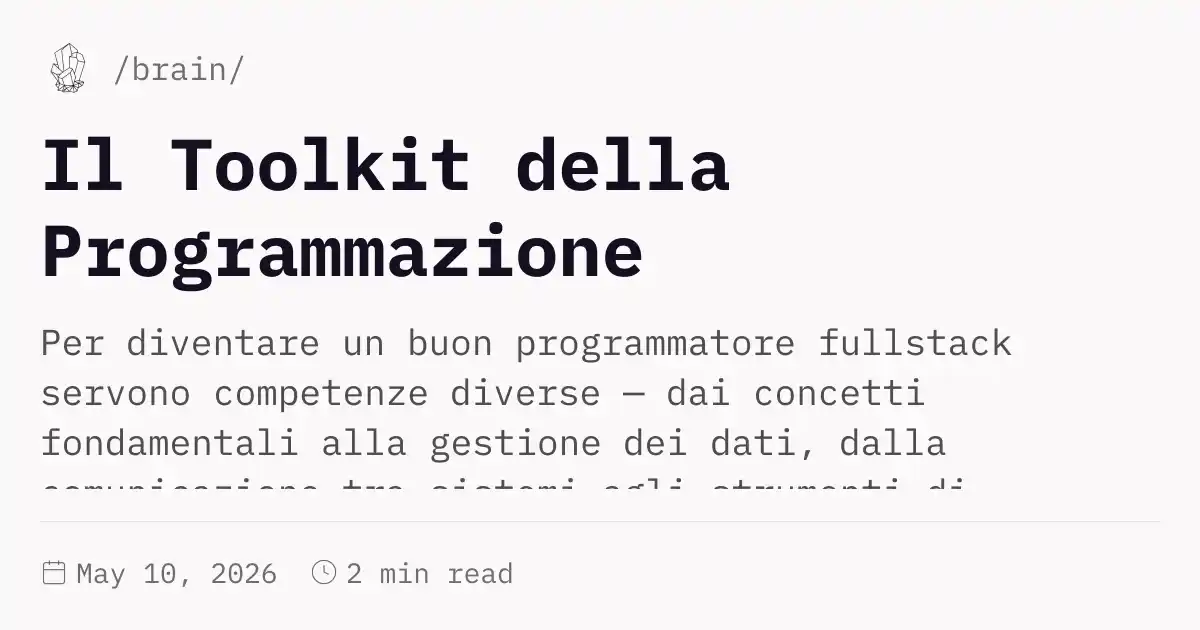
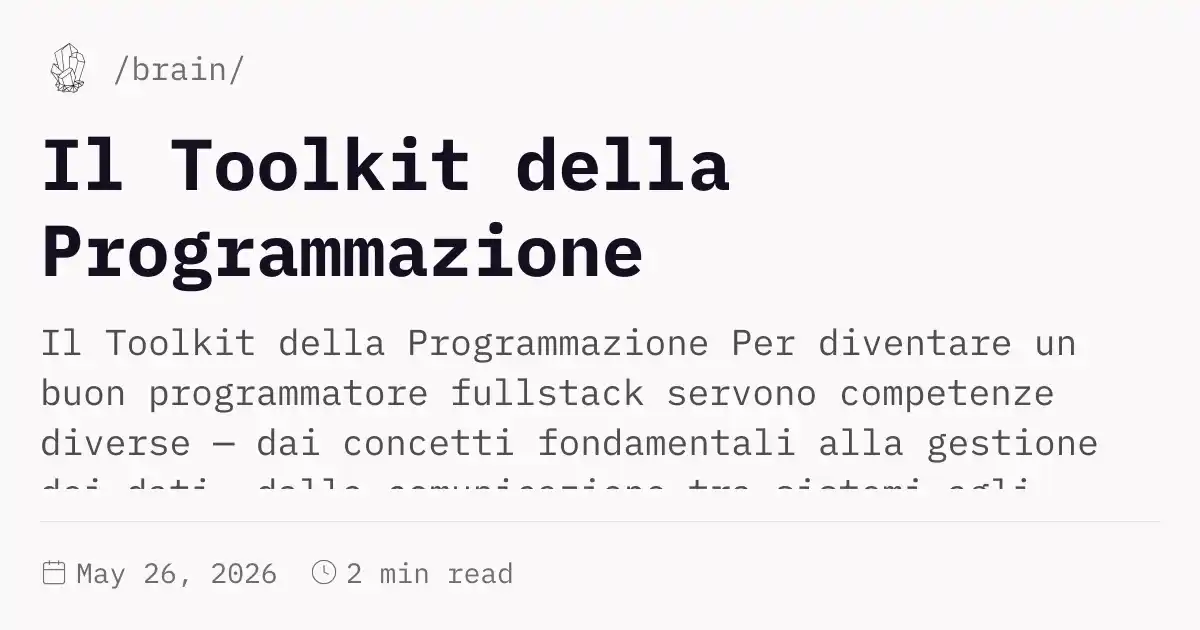
deploy: EdoardoFerrini/brain-source@b0e2ecee27a8cd974776844cb123cc477ac25dbb

diff --git a/programmazione-toolkit.html b/programmazione-toolkit.html
@@ -1,5 +1,5 @@
 <!DOCTYPE html>
-<html lang="en" dir="ltr"><head><title>Il Toolkit della Programmazione</title><meta charset="utf-8"/><link rel="preconnect" href="https://fonts.googleapis.com"/><link rel="preconnect" href="https://fonts.gstatic.com"/><link rel="stylesheet" href="https://fonts.googleapis.com/css2?family=IBM Plex Mono:wght@400;700&amp;family=IBM Plex Mono:ital,wght@0,400;0,600;1,400;1,600&amp;family=IBM Plex Mono:wght@400;600&amp;display=swap"/><link rel="preconnect" href="https://cdnjs.cloudflare.com" crossorigin="anonymous"/><meta name="viewport" content="width=device-width, initial-scale=1.0"/><meta name="og:site_name" content="Lost in Logs"/><meta property="og:title" content="Il Toolkit della Programmazione"/><meta property="og:type" content="website"/><meta name="twitter:card" content="summary_large_image"/><meta name="twitter:title" content="Il Toolkit della Programmazione"/><meta name="twitter:description" content="Per diventare un buon programmatore fullstack servono competenze diverse — dai concetti fondamentali alla gestione dei dati, dalla comunicazione tra sistemi agli strumenti di sviluppo quotidiani."/><meta property="og:description" content="Per diventare un buon programmatore fullstack servono competenze diverse — dai concetti fondamentali alla gestione dei dati, dalla comunicazione tra sistemi agli strumenti di sviluppo quotidiani."/><meta property="og:image:alt" content="Per diventare un buon programmatore fullstack servono competenze diverse — dai concetti fondamentali alla gestione dei dati, dalla comunicazione tra sistemi agli strumenti di sviluppo quotidiani."/><meta property="twitter:domain" content="/brain/"/><meta property="og:url" content="https://brain/programmazione-toolkit"/><meta property="twitter:url" content="https://brain/programmazione-toolkit"/><link rel="icon" href="./static/icon.png"/><meta name="description" content="Per diventare un buon programmatore fullstack servono competenze diverse — dai concetti fondamentali alla gestione dei dati, dalla comunicazione tra sistemi agli strumenti di sviluppo quotidiani."/><meta name="generator" content="Quartz"/><link href="./index.css" rel="stylesheet" type="text/css" data-persist="true"/><style>.expand-button {
+<html lang="en" dir="ltr"><head><title>Il Toolkit della Programmazione</title><meta charset="utf-8"/><link rel="preconnect" href="https://fonts.googleapis.com"/><link rel="preconnect" href="https://fonts.gstatic.com"/><link rel="stylesheet" href="https://fonts.googleapis.com/css2?family=IBM Plex Mono:wght@400;700&amp;family=IBM Plex Mono:ital,wght@0,400;0,600;1,400;1,600&amp;family=IBM Plex Mono:wght@400;600&amp;display=swap"/><link rel="preconnect" href="https://cdnjs.cloudflare.com" crossorigin="anonymous"/><meta name="viewport" content="width=device-width, initial-scale=1.0"/><meta name="og:site_name" content="Lost in Logs"/><meta property="og:title" content="Il Toolkit della Programmazione"/><meta property="og:type" content="website"/><meta name="twitter:card" content="summary_large_image"/><meta name="twitter:title" content="Il Toolkit della Programmazione"/><meta name="twitter:description" content="Il Toolkit della Programmazione Per diventare un buon programmatore fullstack servono competenze diverse — dai concetti fondamentali alla gestione dei dati, dalla comunicazione tra sistemi agli strumenti di sviluppo quotidiani."/><meta property="og:description" content="Il Toolkit della Programmazione Per diventare un buon programmatore fullstack servono competenze diverse — dai concetti fondamentali alla gestione dei dati, dalla comunicazione tra sistemi agli strumenti di sviluppo quotidiani."/><meta property="og:image:alt" content="Il Toolkit della Programmazione Per diventare un buon programmatore fullstack servono competenze diverse — dai concetti fondamentali alla gestione dei dati, dalla comunicazione tra sistemi agli strumenti di sviluppo quotidiani."/><meta property="twitter:domain" content="/brain/"/><meta property="og:url" content="https://brain/programmazione-toolkit"/><meta property="twitter:url" content="https://brain/programmazione-toolkit"/><link rel="icon" href="./static/icon.png"/><meta name="description" content="Il Toolkit della Programmazione Per diventare un buon programmatore fullstack servono competenze diverse — dai concetti fondamentali alla gestione dei dati, dalla comunicazione tra sistemi agli strumenti di sviluppo quotidiani."/><meta name="generator" content="Quartz"/><link href="./index.css" rel="stylesheet" type="text/css" data-persist="true"/><style>.expand-button {
   position: absolute;
   display: flex;
   float: right;
@@ -115,7 +115,10 @@ pre:hover > .expand-button {
   padding: 0 12px;
   font-size: 14px;
 }
[2 lines of base64/hex data omitted]
+<h1 id="il-toolkit-della-programmazione">Il Toolkit della Programmazione<a role="anchor" aria-hidden="true" tabindex="-1" data-no-popover="true" href="#il-toolkit-della-programmazione" class="internal"><svg width="18" height="18" viewBox="0 0 24 24" fill="none" stroke="currentColor" stroke-width="2" stroke-linecap="round" stroke-linejoin="round"><path d="M10 13a5 5 0 0 0 7.54.54l3-3a5 5 0 0 0-7.07-7.07l-1.72 1.71"></path><path d="M14 11a5 5 0 0 0-7.54-.54l-3 3a5 5 0 0 0 7.07 7.07l1.71-1.71"></path></svg></a></h1>
+<p>Per diventare un buon programmatore fullstack servono competenze diverse — dai concetti fondamentali alla gestione dei dati, dalla comunicazione tra sistemi agli strumenti di sviluppo quotidiani.</p>
+</div>
 <div class="toolkit-stats">
   <div class="toolkit-stat"><span class="toolkit-stat-num">70+</span><span class="toolkit-stat-label">Concetti &amp; Tool</span></div>
   <div class="toolkit-stat"><span class="toolkit-stat-num">9</span><span class="toolkit-stat-label">Aree principali</span></div>

diff --git a/404.html b/404.html
@@ -115,7 +115,7 @@ pre:hover > .expand-button {
   padding: 0 12px;
   font-size: 14px;
 }
[2 lines of base64/hex data omitted]
                 s-3.542,0.634-4.898,1.688l-7.669-7.669C16.785,10.424,17,9.74,17,9c0-2.206-1.794-4-4-4S9,6.794,9,9s1.794,4,4,4
                 c0.74,0,1.424-0.215,2.019-0.567l7.669,7.669C21.634,21.458,21,23.154,21,25s0.634,3.542,1.688,4.897L10.024,42.562
                 C8.958,41.595,7.549,41,6,41c-3.309,0-6,2.691-6,6s2.691,6,6,6s6-2.691,6-6c0-1.035-0.263-2.009-0.726-2.86l12.829-12.829

diff --git a/ai-sdk.html b/ai-sdk.html
@@ -115,7 +115,7 @@ pre:hover > .expand-button {
   padding: 0 12px;
   font-size: 14px;
 }
[2 lines of base64/hex data omitted]
 <h2 id="vercel-ai-sdk">Vercel AI SDK<a role="anchor" aria-hidden="true" tabindex="-1" data-no-popover="true" href="#vercel-ai-sdk" class="internal"><svg width="18" height="18" viewBox="0 0 24 24" fill="none" stroke="currentColor" stroke-width="2" stroke-linecap="round" stroke-linejoin="round"><path d="M10 13a5 5 0 0 0 7.54.54l3-3a5 5 0 0 0-7.07-7.07l-1.72 1.71"></path><path d="M14 11a5 5 0 0 0-7.54-.54l-3 3a5 5 0 0 0 7.07 7.07l1.71-1.71"></path></svg></a></h2>
 <p><a href="./cos'è-—-libreria-TypeScript-per-AI-nelle-web-app" class="internal alias" data-slug="cos'è-—-libreria-TypeScript-per-AI-nelle-web-app">cos’è — libreria TypeScript per AI nelle web app</a>
 <a href="./provider-unificato-—-stessa-API-per-OpenAI,-Anthropic,-Google" class="internal alias" data-slug="provider-unificato-—-stessa-API-per-OpenAI,-Anthropic,-Google">provider unificato — stessa API per OpenAI, Anthropic, Google</a>

diff --git a/ai-ux.html b/ai-ux.html
@@ -115,7 +115,7 @@ pre:hover > .expand-button {
   padding: 0 12px;
   font-size: 14px;
 }
[2 lines of base64/hex data omitted]
 <h2 id="sfide-specifiche-dellai-ux">Sfide specifiche dell’AI UX<a role="anchor" aria-hidden="true" tabindex="-1" data-no-popover="true" href="#sfide-specifiche-dellai-ux" class="internal"><svg width="18" height="18" viewBox="0 0 24 24" fill="none" stroke="currentColor" stroke-width="2" stroke-linecap="round" stroke-linejoin="round"><path d="M10 13a5 5 0 0 0 7.54.54l3-3a5 5 0 0 0-7.07-7.07l-1.72 1.71"></path><path d="M14 11a5 5 0 0 0-7.54-.54l-3 3a5 5 0 0 0 7.07 7.07l1.71-1.71"></path></svg></a></h2>
 <p><a href="./latenza-—-i-modelli-sono-lenti-rispetto-alle-API-tradizionali" class="internal alias" data-slug="latenza-—-i-modelli-sono-lenti-rispetto-alle-API-tradizionali">latenza — i modelli sono lenti rispetto alle API tradizionali</a>
 <a href="./non-determinismo-—-la-stessa-input-può-dare-output-diversi" class="internal alias" data-slug="non-determinismo-—-la-stessa-input-può-dare-output-diversi">non-determinismo — la stessa input può dare output diversi</a>

diff --git a/algoritmi.html b/algoritmi.html
@@ -115,7 +115,7 @@ pre:hover > .expand-button {
   padding: 0 12px;
   font-size: 14px;
 }
[2 lines of base64/hex data omitted]
 <h2 id="sorting">Sorting<a role="anchor" aria-hidden="true" tabindex="-1" data-no-popover="true" href="#sorting" class="internal"><svg width="18" height="18" viewBox="0 0 24 24" fill="none" stroke="currentColor" stroke-width="2" stroke-linecap="round" stroke-linejoin="round"><path d="M10 13a5 5 0 0 0 7.54.54l3-3a5 5 0 0 0-7.07-7.07l-1.72 1.71"></path><path d="M14 11a5 5 0 0 0-7.54-.54l-3 3a5 5 0 0 0 7.07 7.07l1.71-1.71"></path></svg></a></h2>
 <p><a href="./bubble-sort-—-O(n²)-—-didattico" class="internal alias" data-slug="bubble-sort-—-O(n²)-—-didattico">bubble sort — O(n²) — didattico</a>
 <a href="./insertion-sort" class="internal alias" data-slug="insertion-sort">insertion sort</a>

diff --git a/api-design.html b/api-design.html
@@ -115,7 +115,7 @@ pre:hover > .expand-button {
   padding: 0 12px;
   font-size: 14px;
 }
[2 lines of base64/hex data omitted]
 <h2 id="principi-fondamentali">Principi fondamentali<a role="anchor" aria-hidden="true" tabindex="-1" data-no-popover="true" href="#principi-fondamentali" class="internal"><svg width="18" height="18" viewBox="0 0 24 24" fill="none" stroke="currentColor" stroke-width="2" stroke-linecap="round" stroke-linejoin="round"><path d="M10 13a5 5 0 0 0 7.54.54l3-3a5 5 0 0 0-7.07-7.07l-1.72 1.71"></path><path d="M14 11a5 5 0 0 0-7.54-.54l-3 3a5 5 0 0 0 7.07 7.07l1.71-1.71"></path></svg></a></h2>
 <p><a href="./API-come-contratto-tra-client-e-server" class="internal alias" data-slug="API-come-contratto-tra-client-e-server">API come contratto tra client e server</a>,
 <a href="./consistency-—-stesse-convenzioni-ovunque" class="internal alias" data-slug="consistency-—-stesse-convenzioni-ovunque">consistency — stesse convenzioni ovunque</a>,

diff --git a/array-javascript.html b/array-javascript.html
@@ -115,7 +115,7 @@ pre:hover > .expand-button {
   padding: 0 12px;
   font-size: 14px;
 }
[2 lines of base64/hex data omitted]
 
 
 

diff --git a/autenticazione-e-autorizzazione.html b/autenticazione-e-autorizzazione.html
@@ -115,7 +115,7 @@ pre:hover > .expand-button {
   padding: 0 12px;
   font-size: 14px;
 }
[2 lines of base64/hex data omitted]
 <h2 id="autenticazione-vs-autorizzazione">Autenticazione vs Autorizzazione<a role="anchor" aria-hidden="true" tabindex="-1" data-no-popover="true" href="#autenticazione-vs-autorizzazione" class="internal"><svg width="18" height="18" viewBox="0 0 24 24" fill="none" stroke="currentColor" stroke-width="2" stroke-linecap="round" stroke-linejoin="round"><path d="M10 13a5 5 0 0 0 7.54.54l3-3a5 5 0 0 0-7.07-7.07l-1.72 1.71"></path><path d="M14 11a5 5 0 0 0-7.54-.54l-3 3a5 5 0 0 0 7.07 7.07l1.71-1.71"></path></svg></a></h2>
 <p><a href="./autenticazione-—-chi-sei-verifica-dell'identità" class="internal alias" data-slug="autenticazione-—-chi-sei-verifica-dell'identità">autenticazione — chi sei? verifica dell’identità</a>
 <a href="./autorizzazione-—-cosa-puoi-fare-verifica-dei-permessi" class="internal alias" data-slug="autorizzazione-—-cosa-puoi-fare-verifica-dei-permessi">autorizzazione — cosa puoi fare? verifica dei permessi</a>

diff --git a/autenticazione.html b/autenticazione.html
@@ -115,7 +115,7 @@ pre:hover > .expand-button {
   padding: 0 12px;
   font-size: 14px;
 }
[2 lines of base64/hex data omitted]
 <h2 id="autenticazione-vs-autorizzazione">Autenticazione vs Autorizzazione<a role="anchor" aria-hidden="true" tabindex="-1" data-no-popover="true" href="#autenticazione-vs-autorizzazione" class="internal"><svg width="18" height="18" viewBox="0 0 24 24" fill="none" stroke="currentColor" stroke-width="2" stroke-linecap="round" stroke-linejoin="round"><path d="M10 13a5 5 0 0 0 7.54.54l3-3a5 5 0 0 0-7.07-7.07l-1.72 1.71"></path><path d="M14 11a5 5 0 0 0-7.54-.54l-3 3a5 5 0 0 0 7.07 7.07l1.71-1.71"></path></svg></a></h2>
 <p><a href="./autenticazione-—-chi-sei" class="internal alias" data-slug="autenticazione-—-chi-sei">autenticazione — chi sei?</a>
 <a href="./autorizzazione-—-cosa-puoi-fare" class="internal alias" data-slug="autorizzazione-—-cosa-puoi-fare">autorizzazione — cosa puoi fare?</a>

diff --git a/browser.html b/browser.html
@@ -115,7 +115,7 @@ pre:hover > .expand-button {
   padding: 0 12px;
   font-size: 14px;
 }
[2 lines of base64/hex data omitted]
 <h2 id="architettura-del-browser">Architettura del browser<a role="anchor" aria-hidden="true" tabindex="-1" data-no-popover="true" href="#architettura-del-browser" class="internal"><svg width="18" height="18" viewBox="0 0 24 24" fill="none" stroke="currentColor" stroke-width="2" stroke-linecap="round" stroke-linejoin="round"><path d="M10 13a5 5 0 0 0 7.54.54l3-3a5 5 0 0 0-7.07-7.07l-1.72 1.71"></path><path d="M14 11a5 5 0 0 0-7.54-.54l-3 3a5 5 0 0 0 7.07 7.07l1.71-1.71"></path></svg></a></h2>
 <p><a href="./UI-layer-—-barra-degli-indirizzi,-pulsanti" class="internal alias" data-slug="UI-layer-—-barra-degli-indirizzi,-pulsanti">UI layer — barra degli indirizzi, pulsanti</a>
 <a href="./browser-engine-—-coordina-UI-e-rendering-engine" class="internal alias" data-slug="browser-engine-—-coordina-UI-e-rendering-engine">browser engine — coordina UI e rendering engine</a>

diff --git a/caching.html b/caching.html
@@ -115,7 +115,7 @@ pre:hover > .expand-button {
   padding: 0 12px;
   font-size: 14px;
 }
[2 lines of base64/hex data omitted]
 <h2 id="fondamenti">Fondamenti<a role="anchor" aria-hidden="true" tabindex="-1" data-no-popover="true" href="#fondamenti" class="internal"><svg width="18" height="18" viewBox="0 0 24 24" fill="none" stroke="currentColor" stroke-width="2" stroke-linecap="round" stroke-linejoin="round"><path d="M10 13a5 5 0 0 0 7.54.54l3-3a5 5 0 0 0-7.07-7.07l-1.72 1.71"></path><path d="M14 11a5 5 0 0 0-7.54-.54l-3 3a5 5 0 0 0 7.07 7.07l1.71-1.71"></path></svg></a></h2>
 <p><a href="./cos'è-il-caching-—-trade-off-tra-velocità-e-freschezza-dei-dati" class="internal alias" data-slug="cos'è-il-caching-—-trade-off-tra-velocità-e-freschezza-dei-dati">cos’è il caching — trade-off tra velocità e freschezza dei dati</a>,
 <a href="./cache-hit-vs-cache-miss" class="internal alias" data-slug="cache-hit-vs-cache-miss">cache hit vs cache miss</a>,

diff --git a/ci-cd.html b/ci-cd.html
@@ -115,7 +115,7 @@ pre:hover > .expand-button {
   padding: 0 12px;
   font-size: 14px;
 }
[2 lines of base64/hex data omitted]
 <h2 id="cosè-cicd">Cos’è CI/CD<a role="anchor" aria-hidden="true" tabindex="-1" data-no-popover="true" href="#cosè-cicd" class="internal"><svg width="18" height="18" viewBox="0 0 24 24" fill="none" stroke="currentColor" stroke-width="2" stroke-linecap="round" stroke-linejoin="round"><path d="M10 13a5 5 0 0 0 7.54.54l3-3a5 5 0 0 0-7.07-7.07l-1.72 1.71"></path><path d="M14 11a5 5 0 0 0-7.54-.54l-3 3a5 5 0 0 0 7.07 7.07l1.71-1.71"></path></svg></a></h2>
 <p><a href="./Continuous-Integration-—-integrare-e-testare-il-codice-frequentemente" class="internal alias" data-slug="Continuous-Integration-—-integrare-e-testare-il-codice-frequentemente">Continuous Integration — integrare e testare il codice frequentemente</a>
 <a href="./Continuous-Delivery-—-il-codice-è-sempre-pronto-per-il-deploy" class="internal alias" data-slug="Continuous-Delivery-—-il-codice-è-sempre-pronto-per-il-deploy">Continuous Delivery — il codice è sempre pronto per il deploy</a>